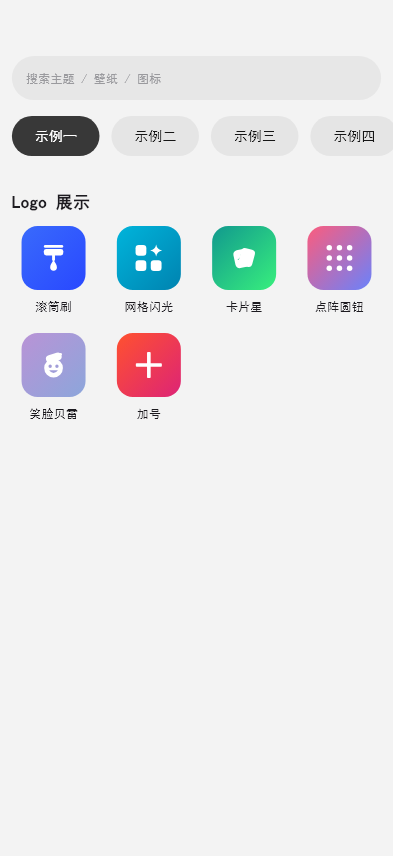
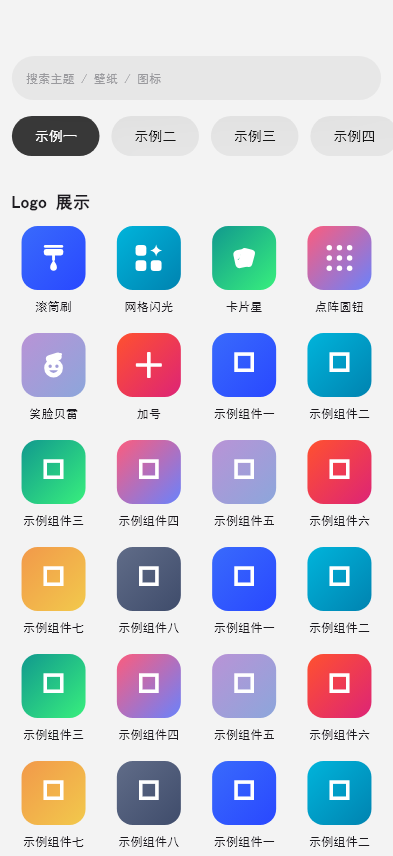
feat(demo): 分类页标签行吸顶，网格从磨砂胶囊后方滚过
_ShowcasePage 改 Stack 悬浮吸顶头部（搜索框+胶囊行），网格初始让出头部高度、上滚时从胶囊后方经过，半透明磨砂透射直观可见。网格展示位加高到 32/组（原 6-8 位只有 2 行、不溢出滚不动），「示例一」前 6 位真实 logo 全量 + 占位补足（命名下标自 logo 数后重排）。新增 showcase_sticky_test（滚动后胶囊行原地不动、内容滚进胶囊后方、吸顶后仍可点）。README 补透明统一配置说明。

diff --git a/lib/demo/mock_pages.dart b/lib/demo/mock_pages.dart
@@ -207,9 +207,12 @@ const List<Widget> _homeItems = [
 /// 「分类」tab = 组件展示库（示例层）。
 ///
 /// 顶部胶囊分类标签是框架组件 [MiPillTabBar]（明暗完整截图实测），
-/// 用来切分组件分组；下方网格是各组件的展示位 —— 「示例一」展示
-/// `nav_icons.dart` 的全部 logo（真实框架 logo），其余分组为示例占位
-/// （渐变圆角方块 + 抽象图形 + 「示例组件N」）。
+/// 用来切分组件分组；下方网格是各组件的展示位 —— 「示例一」前 6 位
+/// 展示 `nav_icons.dart` 的全部 logo（真实框架 logo），其余铺占位补足
+/// 可滚长度，其它分组为示例占位（渐变圆角方块 + 抽象图形 + 「示例组件N」）。
+///
+/// 吸顶展示：搜索框 + 标签行悬浮吸顶，网格上滚时从胶囊后方经过，
+/// 借胶囊的半透明磨砂直观展示透明/透射效果。
 class _ShowcasePage extends StatefulWidget {
   const _ShowcasePage({required this.themeMode});
 
@@ -220,12 +223,17 @@ class _ShowcasePage extends StatefulWidget {
 }
 
 class _ShowcasePageState extends State<_ShowcasePage> {
+  /// 吸顶头部高度 = 状态栏让位 56 + 搜索框 44.1 + 间距 16 + 胶囊行 39.9；
+  /// 滚动网格初始让出头部 + 12（胶囊行底 → 内容的实测间距）。
+  static const double _headerHeight =
+      56 + 44.1 + 16 + MiPillTabMetrics.pillHeight;
+
   /// 分类标签（示例名，对应截图 推荐/背屏/小部件/主题 的位置）。
   static const List<String> _tabs = ['示例一', '示例二', '示例三', '示例四'];
 
-  /// 每个分类下的展示位数量（示例内容，顺便覆盖可滚动长度）；
-  /// 「示例一」是 logo 全量展示，数量由 [_logoNames] 决定。
-  static const List<int> _counts = [6, 6, 8, 4];
+  /// 每个分类下的展示位数量（示例内容）；取足够行数使网格溢出可滚，
+  /// 以便演示「滚动内容从吸顶胶囊后方经过」的透明/磨砂透射。
+  static const List<int> _counts = [32, 32, 32, 32];
 
   /// 「示例一」的 logo 名称（与 [_logos] 顺序一致）。
   static const List<String> _logoNames = [
@@ -249,23 +257,26 @@ class _ShowcasePageState extends State<_ShowcasePage> {
 
   int _tab = 0;
 
-  /// 展示位：「示例一」给 logo 展示位，其余分组给占位展示位。
+  /// 展示位：「示例一」前 6 位给真实 logo 全量展示位，其余铺占位展示位
+  /// （补足可滚长度）；其余分组全给占位展示位。
   Widget _tileAt(int i, bool logoMode, List<CustomPainter> logos) {
-    if (logoMode) {
+    if (logoMode && i < _logoNames.length) {
       return _ShowcaseTile(
         colors: _tileGradients[i % _tileGradients.length],
         glyph: CustomPaint(painter: logos[i], size: const Size.square(26)),
         name: _logoNames[i],
       );
     }
+    // 占位下标从头计（「示例一」的占位跟在 6 个 logo 之后，命名从一重排）
+    final k = logoMode ? i - _logoNames.length : i;
     return _ShowcaseTile(
-      colors: _tileGradients[(i + _tab * 2) % _tileGradients.length],
+      colors: _tileGradients[(k + _tab * 2) % _tileGradients.length],
       glyph: Icon(
-        _tileIcons[(i + _tab * 2) % _tileIcons.length],
+        _tileIcons[(k + _tab * 2) % _tileIcons.length],
         color: Colors.white,
         size: 26,
       ),
-      name: _tileNames[i],
+      name: _tileNames[k % _tileNames.length],
     );
   }
 
@@ -273,53 +284,70 @@ class _ShowcasePageState extends State<_ShowcasePage> {
   Widget build(BuildContext context) {
     final logoMode = _tab == 0;
     final logos = logoMode ? _logos(Colors.white) : const <CustomPainter>[];
-    final count = logoMode ? _logoNames.length : _counts[_tab];
+    final count = _counts[_tab];
     // 页底色与内容边距按完整截图实测：亮 #F3F3F3 / 暗 #000000，
     // 内容左右 37px≈11.9dp（搜索框、标签行、下方内容同边距）
     return Container(
       color: widget.themeMode == MiThemeMode.light
           ? const Color(0xFFF3F3F3)
           : const Color(0xFF000000),
-      child: ListView(
-        padding: EdgeInsets.zero,
+      child: Stack(
         children: [
-          const Padding(
-            padding: EdgeInsets.fromLTRB(11.9, 56, 11.9, 0),
-            child: _SearchBar(),
-          ),
-          const SizedBox(height: 16), // 实测搜索框底 → 标签行 49px ≈ 15.8dp
-          MiPillTabBar(
-            labels: _tabs,
-            selectedIndex: _tab,
-            onTap: (i) => setState(() => _tab = i),
-            themeMode: widget.themeMode,
-          ),
-          const SizedBox(height: 12),
-          Padding(
-            padding: const EdgeInsets.symmetric(horizontal: 11.9),
-            child: Column(
-              crossAxisAlignment: CrossAxisAlignment.start,
+          // 滚动网格：初始让出吸顶头部高度；上滚后内容从胶囊行后方经过，
+          // 胶囊的半透明磨砂把透上来的网格磨出毛玻璃感。
+          Positioned.fill(
+            child: ListView(
+              padding:
+                  const EdgeInsets.fromLTRB(11.9, _headerHeight + 12, 11.9, 0),
               children: [
-                _SectionTitle(logoMode ? 'Logo 展示' : '组件展示'),
-                for (var row = 0; row * 4 < count; row++) ...[
-                  Padding(
-                    padding: const EdgeInsets.only(bottom: 18),
-                    child: Row(
-                      crossAxisAlignment: CrossAxisAlignment.start,
-                      children: [
-                        for (var col = 0; col < 4; col++) ...[
-                          if (col > 0) const SizedBox(width: 12),
-                          Expanded(
-                            child: row * 4 + col < count
-                                ? _tileAt(row * 4 + col, logoMode, logos)
-                                : const SizedBox.shrink(),
-                          ),
-                        ],
-                      ],
-                    ),
-                  ),
-                ],
-                const SizedBox(height: 20),
+                Column(
+                  crossAxisAlignment: CrossAxisAlignment.start,
+                  children: [
+                    _SectionTitle(logoMode ? 'Logo 展示' : '组件展示'),
+                    for (var row = 0; row * 4 < count; row++) ...[
+                      Padding(
+                        padding: const EdgeInsets.only(bottom: 18),
+                        child: Row(
+                          crossAxisAlignment: CrossAxisAlignment.start,
+                          children: [
+                            for (var col = 0; col < 4; col++) ...[
+                              if (col > 0) const SizedBox(width: 12),
+                              Expanded(
+                                child: row * 4 + col < count
+                                    ? _tileAt(row * 4 + col, logoMode, logos)
+                                    : const SizedBox.shrink(),
+                              ),
+                            ],
+                          ],
+                        ),
+                      ),
+                    ],
+                    const SizedBox(height: 20),
+                  ],
+                ),
+              ],
+            ),
+          ),
+          // 吸顶头部：搜索框 + 胶囊分类标签悬浮在滚动内容之上
+          //（标签行吸附搜索框下方，网格从胶囊后方滚过）。
+          Positioned(
+            left: 0,
+            right: 0,
+            top: 0,
+            child: Column(
+              mainAxisSize: MainAxisSize.min,
+              children: [
+                const Padding(
+                  padding: EdgeInsets.fromLTRB(11.9, 56, 11.9, 0),
+                  child: _SearchBar(),
+                ),
+                const SizedBox(height: 16), // 实测搜索框底 → 标签行 49px ≈ 15.8dp
+                MiPillTabBar(
+                  labels: _tabs,
+                  selectedIndex: _tab,
+                  onTap: (i) => setState(() => _tab = i),
+                  themeMode: widget.themeMode,
+                ),
               ],
             ),
           ),

diff --git a/test/showcase_sticky_test.dart b/test/showcase_sticky_test.dart
@@ -1,0 +1,48 @@
+import 'package:flutter/material.dart';
+import 'package:flutter_test/flutter_test.dart';
+
+// 框架 API 走公共 barrel；demo 层直接引示例代码。
+import 'package:mi_like_ui/mi_like_ui.dart';
+import 'package:mi_like_ui/demo/mock_pages.dart';
+
+/// 「分类」展示页吸顶行为：搜索框 + 胶囊标签行悬浮吸顶，
+/// 网格上滚时从胶囊后方经过（透明/磨砂透射展示位）。
+void main() {
+  testWidgets('pill row stays pinned while the grid scrolls behind it',
+      (tester) async {
+    tester.view.devicePixelRatio = 1.0;
+    tester.view.physicalSize = const Size(393, 856);
+    addTearDown(tester.view.reset);
+
+    await tester.pumpWidget(
+      MaterialApp(
+        theme: ThemeData.dark(useMaterial3: true),
+        home: const Scaffold(body: MockPage(1, themeMode: MiThemeMode.dark)),
+      ),
+    );
+    await tester.pumpAndSettle();
+
+    // 初始：标签行吸附搜索框下方 = 56 + 44.1 + 16 = 116.1
+    final pillTop = tester.getTopLeft(find.byType(MiPillTabBar)).dy;
+    expect(pillTop, closeTo(56 + 44.1 + 16, 0.01));
+
+    // 上滚网格：标题滚进胶囊行后方，胶囊行原地不动
+    await tester.drag(find.byType(ListView), const Offset(0, -300));
+    await tester.pumpAndSettle();
+
+    expect(tester.getTopLeft(find.byType(MiPillTabBar)).dy, pillTop);
+    expect(tester.getTopLeft(find.text('Logo 展示')).dy, lessThan(pillTop));
+
+    // 吸顶后标签仍可点（头部悬浮在滚动内容之上，命中测试不受影响）
+    const dark = MiPillTabPalette.dark;
+    await tester.tap(find.text('示例三'));
+    await tester.pump(const Duration(milliseconds: 300));
+    final container = tester.widget<AnimatedContainer>(
+      find.ancestor(
+        of: find.text('示例三'),
+        matching: find.byType(AnimatedContainer),
+      ),
+    );
+    expect((container.decoration! as BoxDecoration).color, dark.selectedFill);
+  });
+}

diff --git a/README.md b/README.md
@@ -20,7 +20,7 @@
 
 <img src="doc/preview/pill_light.png" width="360" alt="浅色胶囊分类标签行" /> <img src="doc/preview/pill_dark.png" width="360" alt="深色胶囊分类标签行" />
 
-「分类」tab 为组件展示页（「示例一」为 `nav_icons.dart` 全量 logo 展示，其余分组为示例占位）：
+「分类」tab 为组件展示页（「示例一」前 6 位为 `nav_icons.dart` 全量 logo，其余为示例占位；标签行吸顶，滚动内容从半透明磨砂胶囊后方经过）：
 
 <img src="doc/preview/showcase_light.png" width="200" alt="浅色组件展示页" /> <img src="doc/preview/showcase_dark.png" width="200" alt="深色组件展示页" />
 
@@ -42,7 +42,7 @@ lib/
 ├── main.dart                # demo 引导
 ├── demo/                    # 示例层（演示 app）
 └── src/
-    ├── theme/               # 样式/主题层（颜色·文字·间距·材质 token，明暗双配方）
+    ├── theme/               # 样式/主题层（颜色·文字·间距·材质·透明/磨砂 token，明暗双配方）
     ├── components/          # 组件层（类别/组件名/ 两级目录）
     │   └── navigation/
     │       ├── glass_nav_bar/
@@ -57,7 +57,7 @@ test/                        # 黄金图 + 交互测试
 |---|---|
 | 导出层 `lib/mi_like_ui.dart` | 唯一对外 API 面 |
 | 组件层 `src/components/` | 可复用组件：widget + metrics + painter |
-| 主题层 `src/theme/` | 跨组件样式 token |
+| 主题层 `src/theme/` | 跨组件样式 token（玻璃/透明参数统一配置，组件同源取值） |
 | 图标 `src/icons/nav_icons.dart` | 导航栏 logo 合集（`*IconPainter`） |
 | 工具层 `src/utils/` | 无状态纯函数 |
 | 示例层 `lib/demo/` | 演示 app，模拟真实使用方 |
